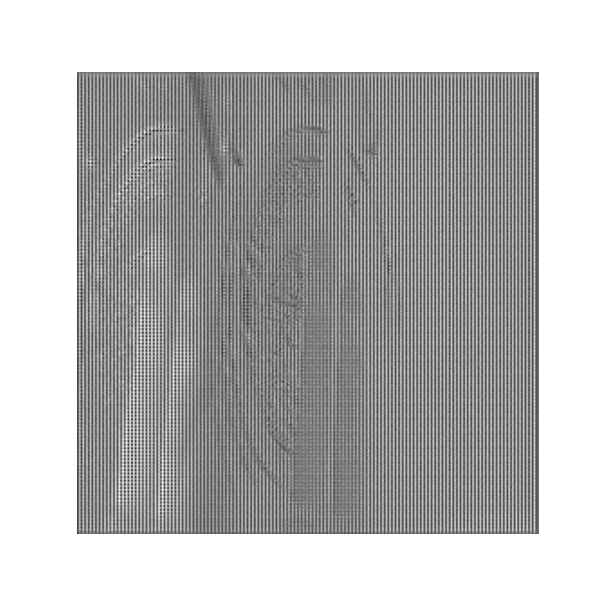
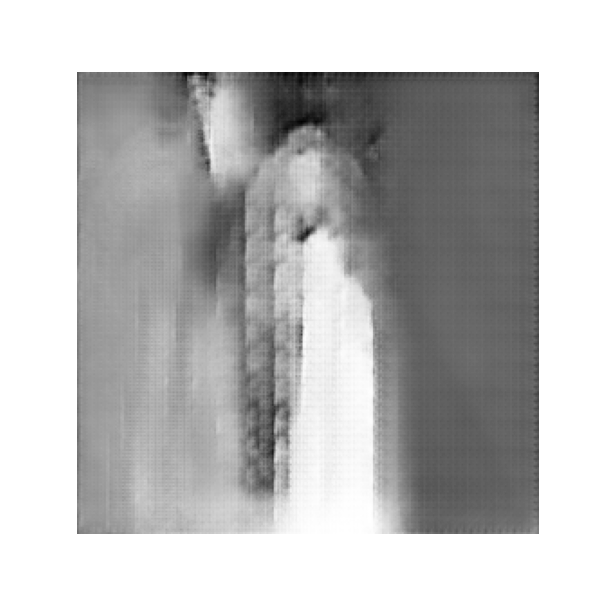
8k iterations

diff --git a/pix2pix.py b/pix2pix.py
@@ -377,7 +377,7 @@ def fit(train_ds, test_ds, steps):
       checkpoint.save(file_prefix=checkpoint_prefix)
 
 
-fit(train_lx_rx_y, test_lx_rx_y, steps=10)
+fit(train_lx_rx_y, test_lx_rx_y, steps=8000)
 example_input, example_target = next(iter(test_lx_rx_y.take(1)))
 
 plt.figure(figsize=(6, 6))
